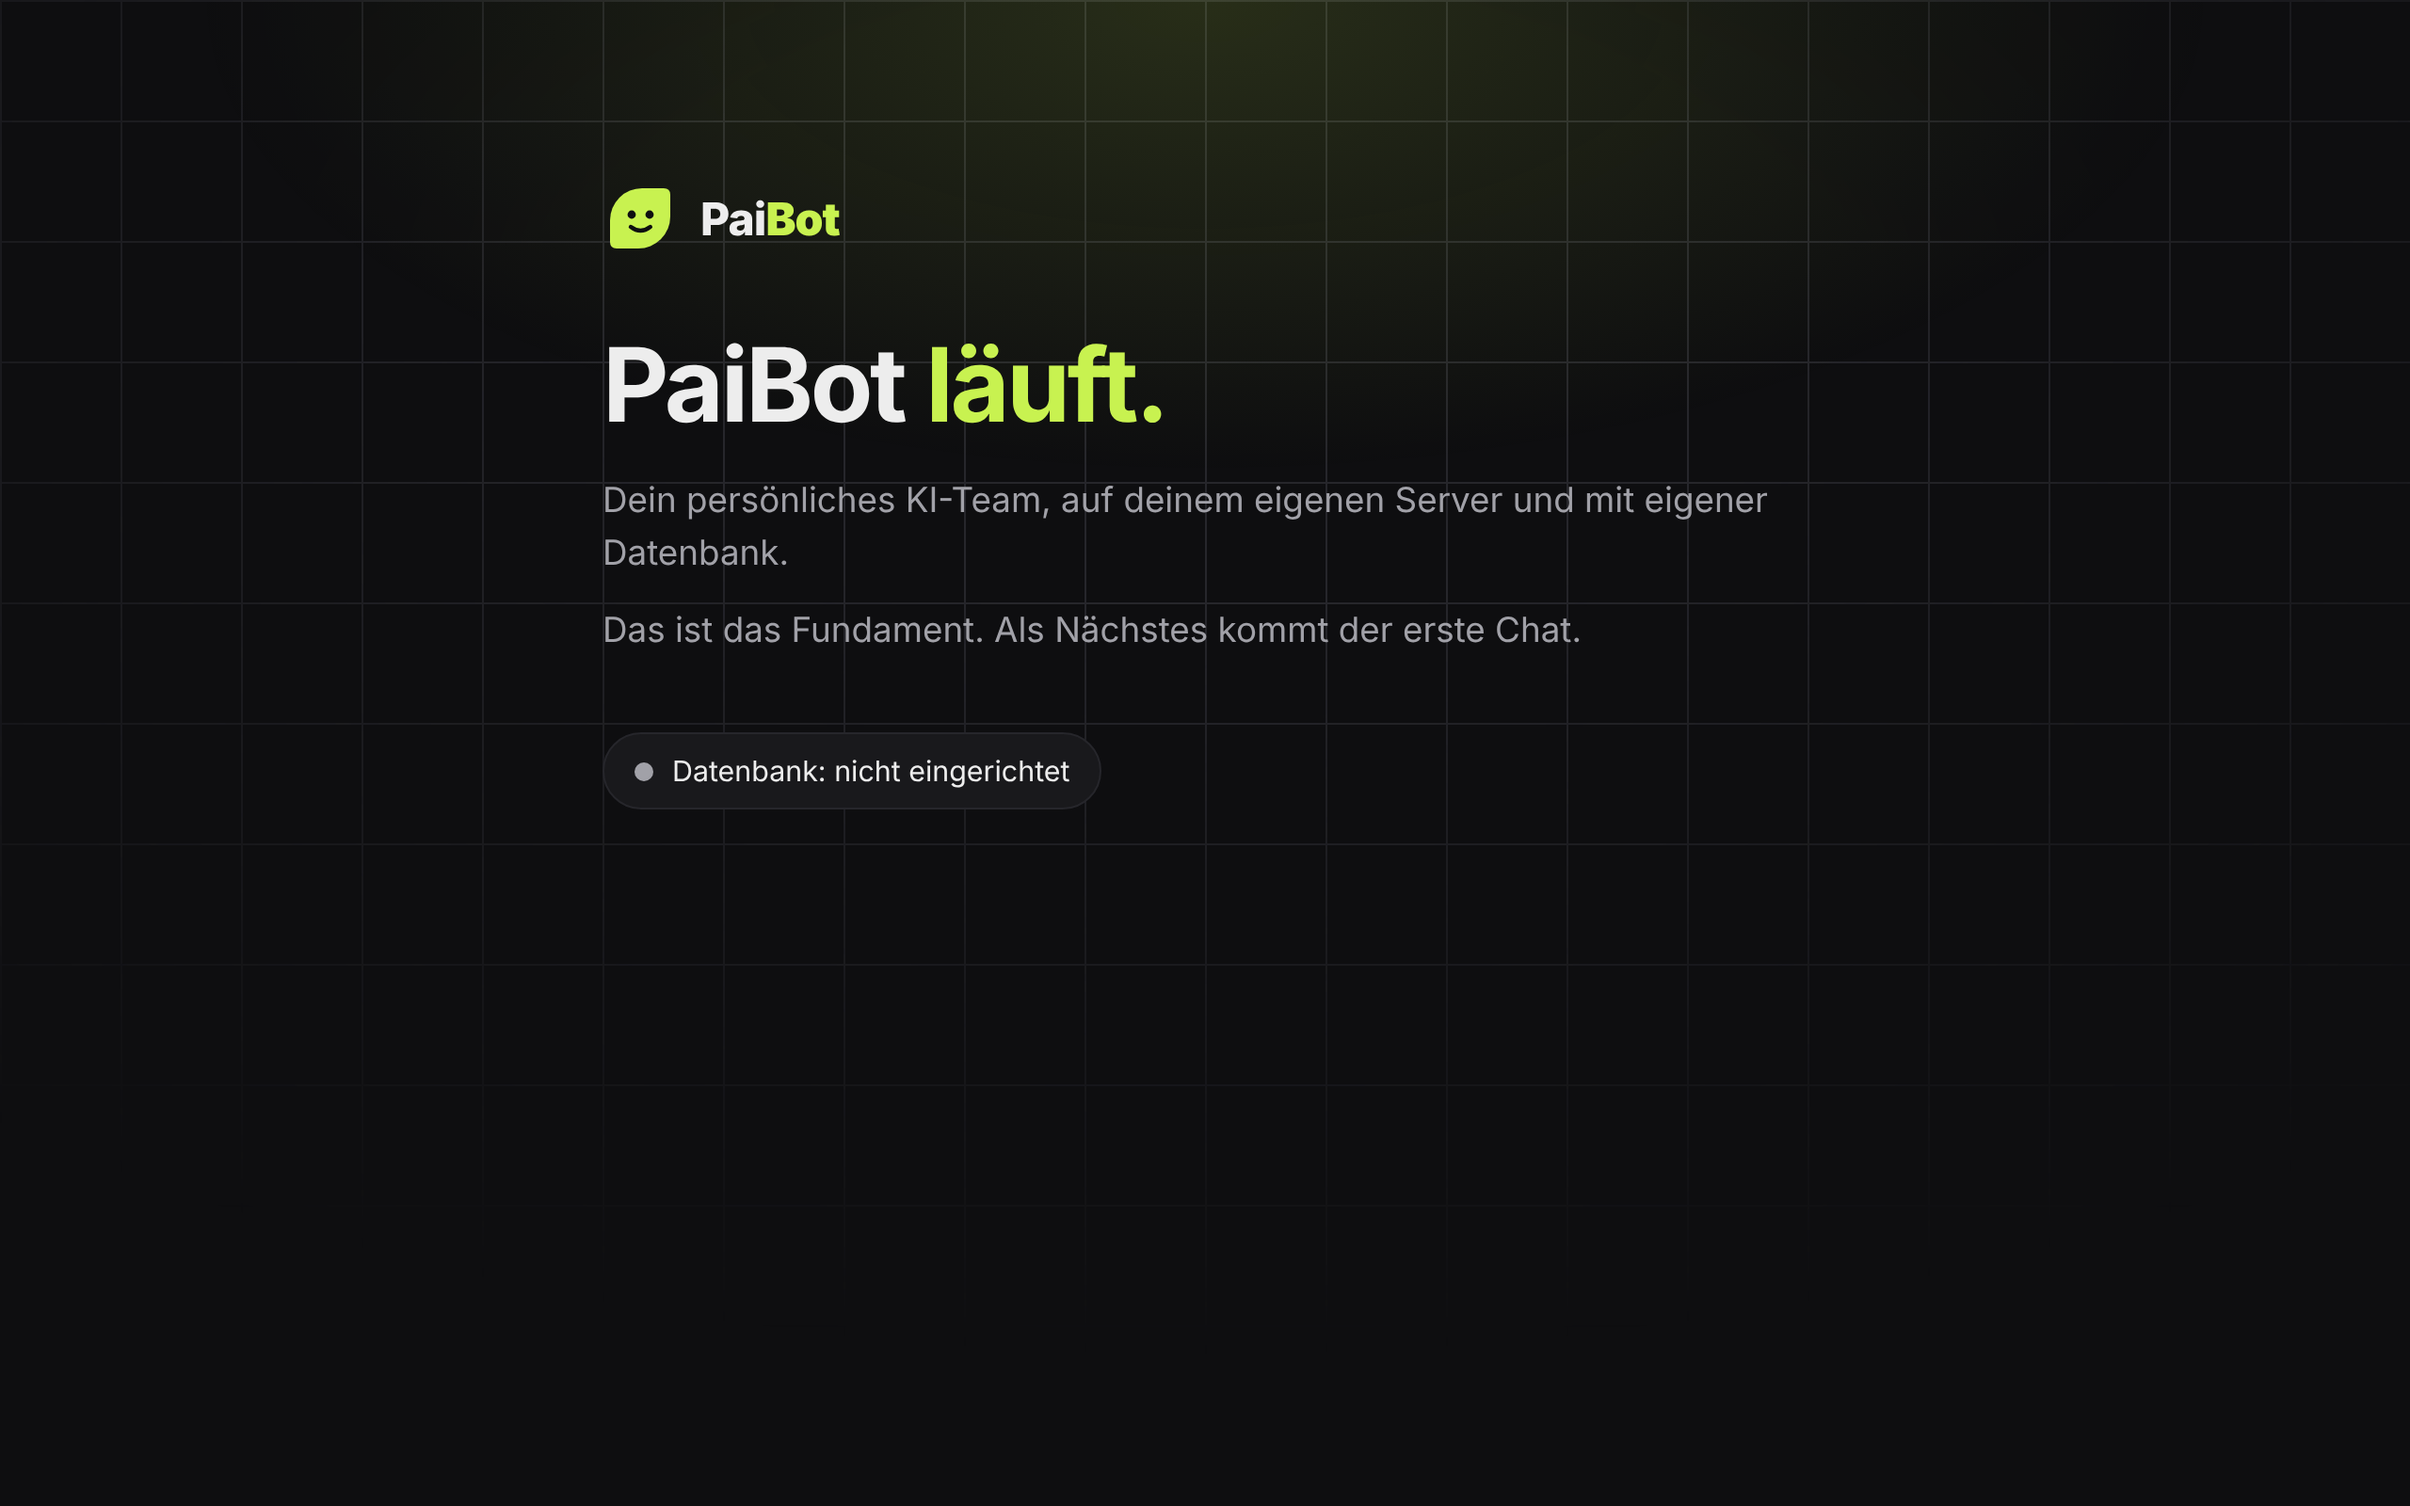
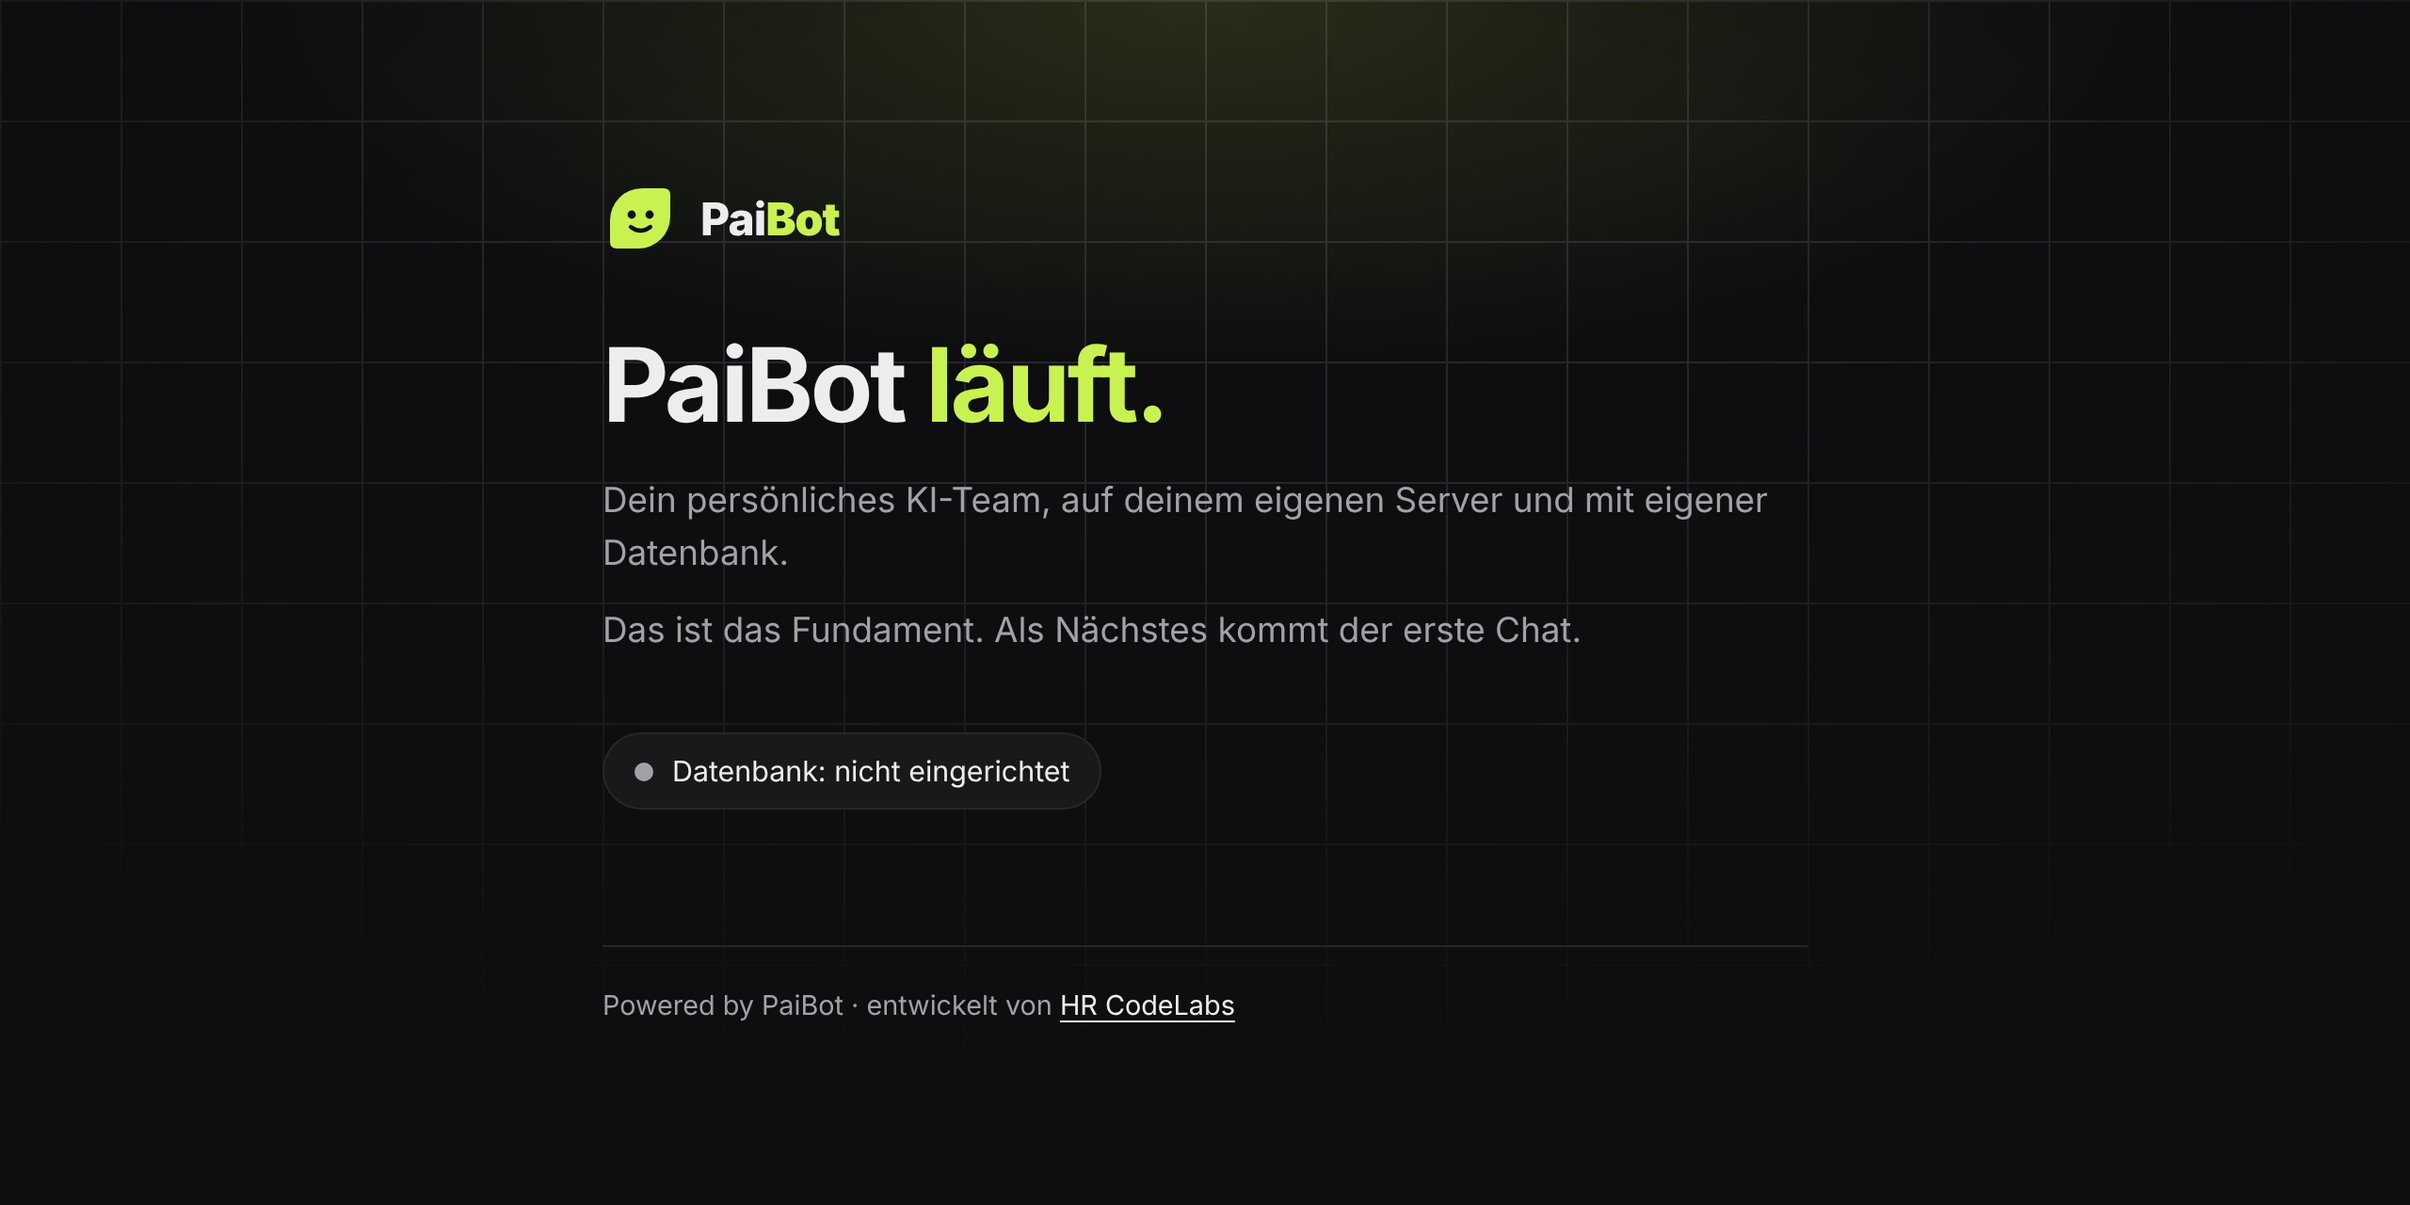
docs: Screenshots der Startseite mit Fußzeile neu aufgenommen, README auf aktuelle Linie gebracht
- Startseiten-Screenshots auf 1280x640 gekürzt, Fußzeile ist zu sehen
- README: Kopfzeile, Status-Abschnitt und Community-Liste nennen Coding-Sessions,
  Livestream und die Links zu Bauplan, Mitentscheiden und Doku
- Funktionstabelle: Server-Installation (Docker Compose, Coolify) als vorhanden,
  lokale Variante mit lokalem Modell weiter geplant

Claude-Session: https://claude.ai/code/session_01MLo9cAeNc1r994E5agV7ky

diff --git a/README.md b/README.md
@@ -22,7 +22,7 @@ Seit:      2026-11-07
 
 <p align="center">
   <b>Dein persönliches KI-Team – auf deinem Server oder Rechner, mit EU-Modellen und zuschaltbarer Datenschleuse.</b><br>
-  Wir bauen es öffentlich, Folge für Folge. Und du baust mit.
+  Der Code ist öffentlich. Und du entscheidest mit, was als Nächstes kommt.
 </p>
 
 <p align="center">
@@ -71,16 +71,16 @@ Die neuesten KI-Agenten kommen oft gar nicht oder nur eingeschränkt nach Europa
 
 ## Funktionen
 
-|     | Funktion                                                       | Status            |
-| --- | -------------------------------------------------------------- | ----------------- |
-| 🖥  | Läuft auf eigenem Server (Coolify) oder lokal                  | geplant · Folge 2 |
-| 🛡  | Datenschleuse für persönliche Daten, zuschaltbar               | geplant · Folge 3 |
-| 🤖  | Eigene Bots mit Rollen, Gedächtnis und Live-Antworten          | geplant           |
-| 🔌  | Apps per MCP verbinden, Freigabe vor jeder schreibenden Aktion | geplant           |
-| 🌐  | Browser-Agent: der Bot surft selbst, du schaust live zu        | geplant           |
-| 🤝  | Bots im Team: Delegieren, Übergeben, Chief of Staff            | geplant           |
-| ⏰  | Routinen, die im Hintergrund laufen                            | geplant           |
-| 📱  | App fürs Handy (PWA) mit Push, Deutsch und Englisch            | geplant           |
+|     | Funktion                                                       | Status                                                                                                                               |
+| --- | -------------------------------------------------------------- | ------------------------------------------------------------------------------------------------------------------------------------ |
+| 🖥  | Läuft auf eigenem Server (Coolify) oder lokal                  | Server: vorhanden (Docker Compose, Coolify, siehe [`docs/installation.md`](docs/installation.md)); lokal mit lokalem Modell: geplant |
+| 🛡  | Datenschleuse für persönliche Daten, zuschaltbar               | geplant · Folge 3                                                                                                                    |
+| 🤖  | Eigene Bots mit Rollen, Gedächtnis und Live-Antworten          | geplant                                                                                                                              |
+| 🔌  | Apps per MCP verbinden, Freigabe vor jeder schreibenden Aktion | geplant                                                                                                                              |
+| 🌐  | Browser-Agent: der Bot surft selbst, du schaust live zu        | geplant                                                                                                                              |
+| 🤝  | Bots im Team: Delegieren, Übergeben, Chief of Staff            | geplant                                                                                                                              |
+| ⏰  | Routinen, die im Hintergrund laufen                            | geplant                                                                                                                              |
+| 📱  | App fürs Handy (PWA) mit Push, Deutsch und Englisch            | geplant                                                                                                                              |
 
 ## So funktioniert es
 
@@ -101,7 +101,11 @@ Mit eingeschalteter Datenschleuse sieht das Modell zum Beispiel nur `<PERSON_0>`
 
 > 🚧 **Aktueller Stand: Folge 0 – das Gerüst steht.** Ab Folge 2 wird daraus Schritt für Schritt der echte Agent.
 
-Jede Folge der YouTube-Serie endet mit etwas, das wirklich läuft, und bekommt einen eigenen Git-Tag (`folge-00`, `folge-01`, …). So kannst du jeden Stand genau nachbauen. Die Reihenfolge kann sich ändern, und die Community entscheidet mit.
+Gebaut wird zwischen den Folgen der YouTube-Serie, in Coding-Sessions der Community auf [aiianer.de](https://aiianer.de) und im Livestream. Die Folgen zeigen, wie man PaiBot installiert, benutzt und ausbaut. Jede Folge bekommt einen eigenen Git-Tag (`folge-00`, `folge-01`, …), so kannst du jeden Stand nachbauen. Die Reihenfolge kann sich ändern, und die Community stimmt ab, welche Funktion als Nächstes kommt.
+
+- 🗺 [Bauplan](https://paibot.de/bauplan): der aktuelle Stand
+- 🗳 [Mitentscheiden](https://paibot.de/mitentscheiden): welche Funktion kommt als Nächstes?
+- 📖 [Doku](https://paibot.de/doku): installieren und benutzen
 
 - [x] **Folge 0** – Gerüst, Lizenz, CI
 - [ ] **Folge 1** – Die Idee
@@ -218,6 +222,7 @@ Regelmäßig, mehrmals pro Woche. Abonniere den Kanal und gib dem Repo einen Ste
 ## Mitmachen und Community
 
 - ⭐ **Gib dem Repo einen Stern**, wenn dir das Projekt gefällt – das hilft enorm.
+- 🗳 **Entscheide mit:** auf [paibot.de/mitentscheiden](https://paibot.de/mitentscheiden) stimmst du ab, was als Nächstes kommt. Den Stand siehst du im [Bauplan](https://paibot.de/bauplan), die Anleitungen in der [Doku](https://paibot.de/doku).
 - 💬 **Community auf [aiianer.de](https://aiianer.de):** Deep Dives zu jeder Folge, gemeinsame Coding-Sessions zum Mitbauen und Hilfe, wenn es hakt.
 - 🐛 **Fehler oder Ideen?** Eröffne ein [Issue](https://github.com/oliverhees/paibot/issues/new/choose).
 - 🛠 **Selbst beitragen?** Lies zuerst [`CONTRIBUTING.md`](CONTRIBUTING.md) (Beitragsvereinbarung nötig).
